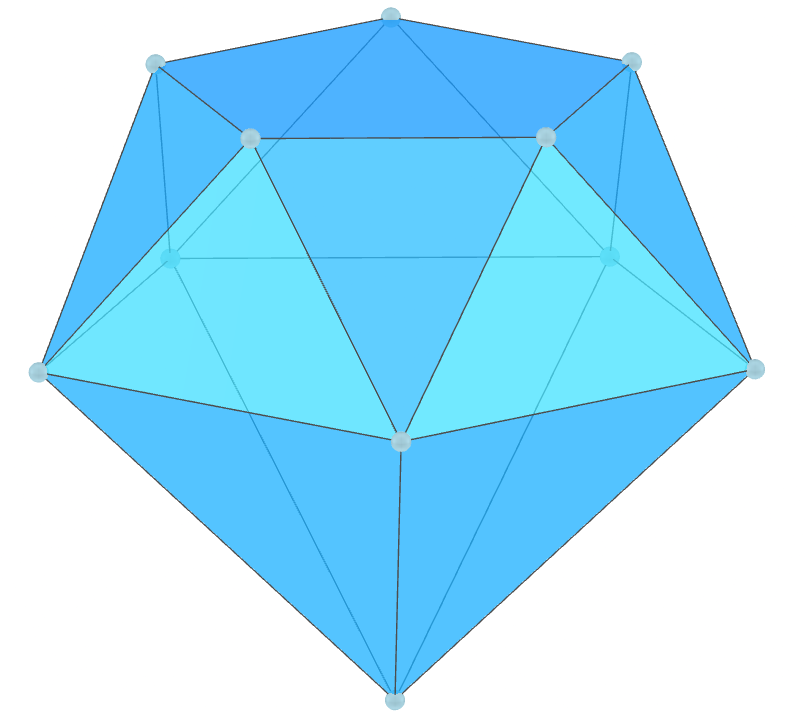
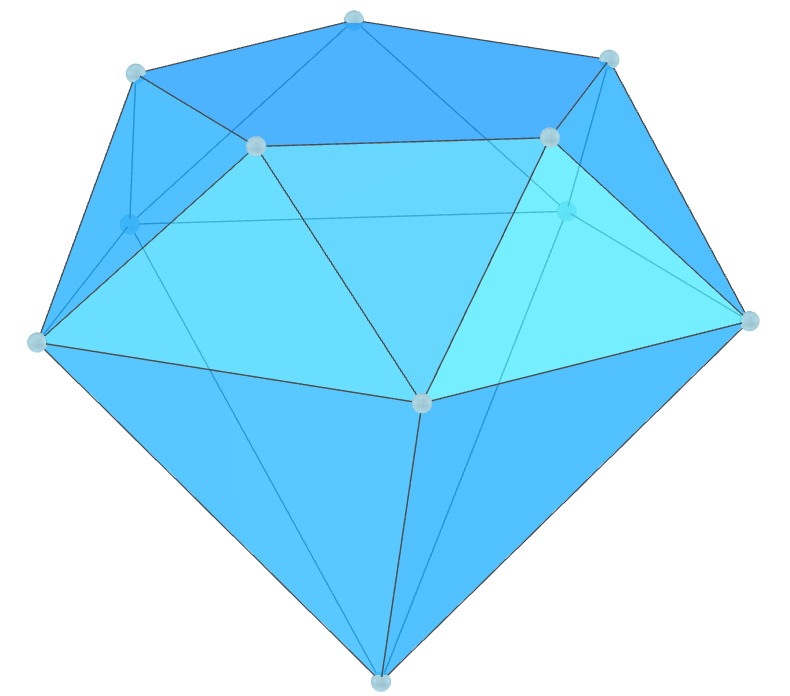
update

diff --git a/diamonds/vr/HexagonalAntiprism2.htm b/diamonds/vr/HexagonalAntiprism2.htm
@@ -18,11 +18,11 @@
 			<a-mixin id="mtl0p" material="opacity: 0.2; roughness: 0.9; metalness: 0.3;"></a-mixin>
 			<a-mixin id="texto" text="color: #4d4d4d; align:center;"></a-mixin>
 			<a-mixin id="luz" light="type: directional; color: white; intensity:0.4"></a-mixin>
-			<a-mixin id="esfera" mixin="mtl9" geometry="radius: 0.027;" material="metalness:0.4; roughness:0.6;">
+			<a-mixin id="esfera" mixin="mtl9" geometry="radius: 0.028;" material="metalness:0.4; roughness:0.6;">
 			<a-asset-item id="material" src="outros/solidos.mtl"></a-asset-item>
 		</a-assets>
 				
-		<a-entity rotation="-90 0 0" position="0 2 0" scale="5.2 5.2 5.2">
+		<a-entity rotation="-90 0 0" position="0 2.5 0" scale="5 5 5">
 			<a-obj-model id="fc" src="outros/HexagonalAntiprism2.obj" mtl="#material" scale="0.998 0.998 0.998"></a-obj-model>
 			<a-obj-model id="ar" src="outros/HexagonalAntiprism2L.obj" mtl="#material"></a-obj-model>
 			<a-sphere mixin='esfera' position='-0.666 0.0 0.275'></a-sphere>

diff --git a/diamonds/vr/PentagonalAntiprism2.htm b/diamonds/vr/PentagonalAntiprism2.htm
@@ -35,7 +35,7 @@
 			<a-sphere mixin='esfera' position='-0.539 0.25 -0.175'></a-sphere>
 			<a-sphere mixin='esfera' position='-0.333 0.25 0.458'></a-sphere>
 			<a-sphere mixin='esfera' position='0.333 0.25 0.458'></a-sphere>
-			<a-sphere mixin='esfera' position='0 -1.5 0'></a-sphere>
+			<a-sphere mixin='esfera' position='0 -1.3 0'></a-sphere>
 			<a-sphere mixin='esfera' position='0.539 -0.75 -0.175'></a-sphere>
 			<a-sphere mixin='esfera' position='0 -0.75 -0.567'></a-sphere>
 			<a-sphere mixin='esfera' position='-0.539 -0.75 -0.175'></a-sphere>
